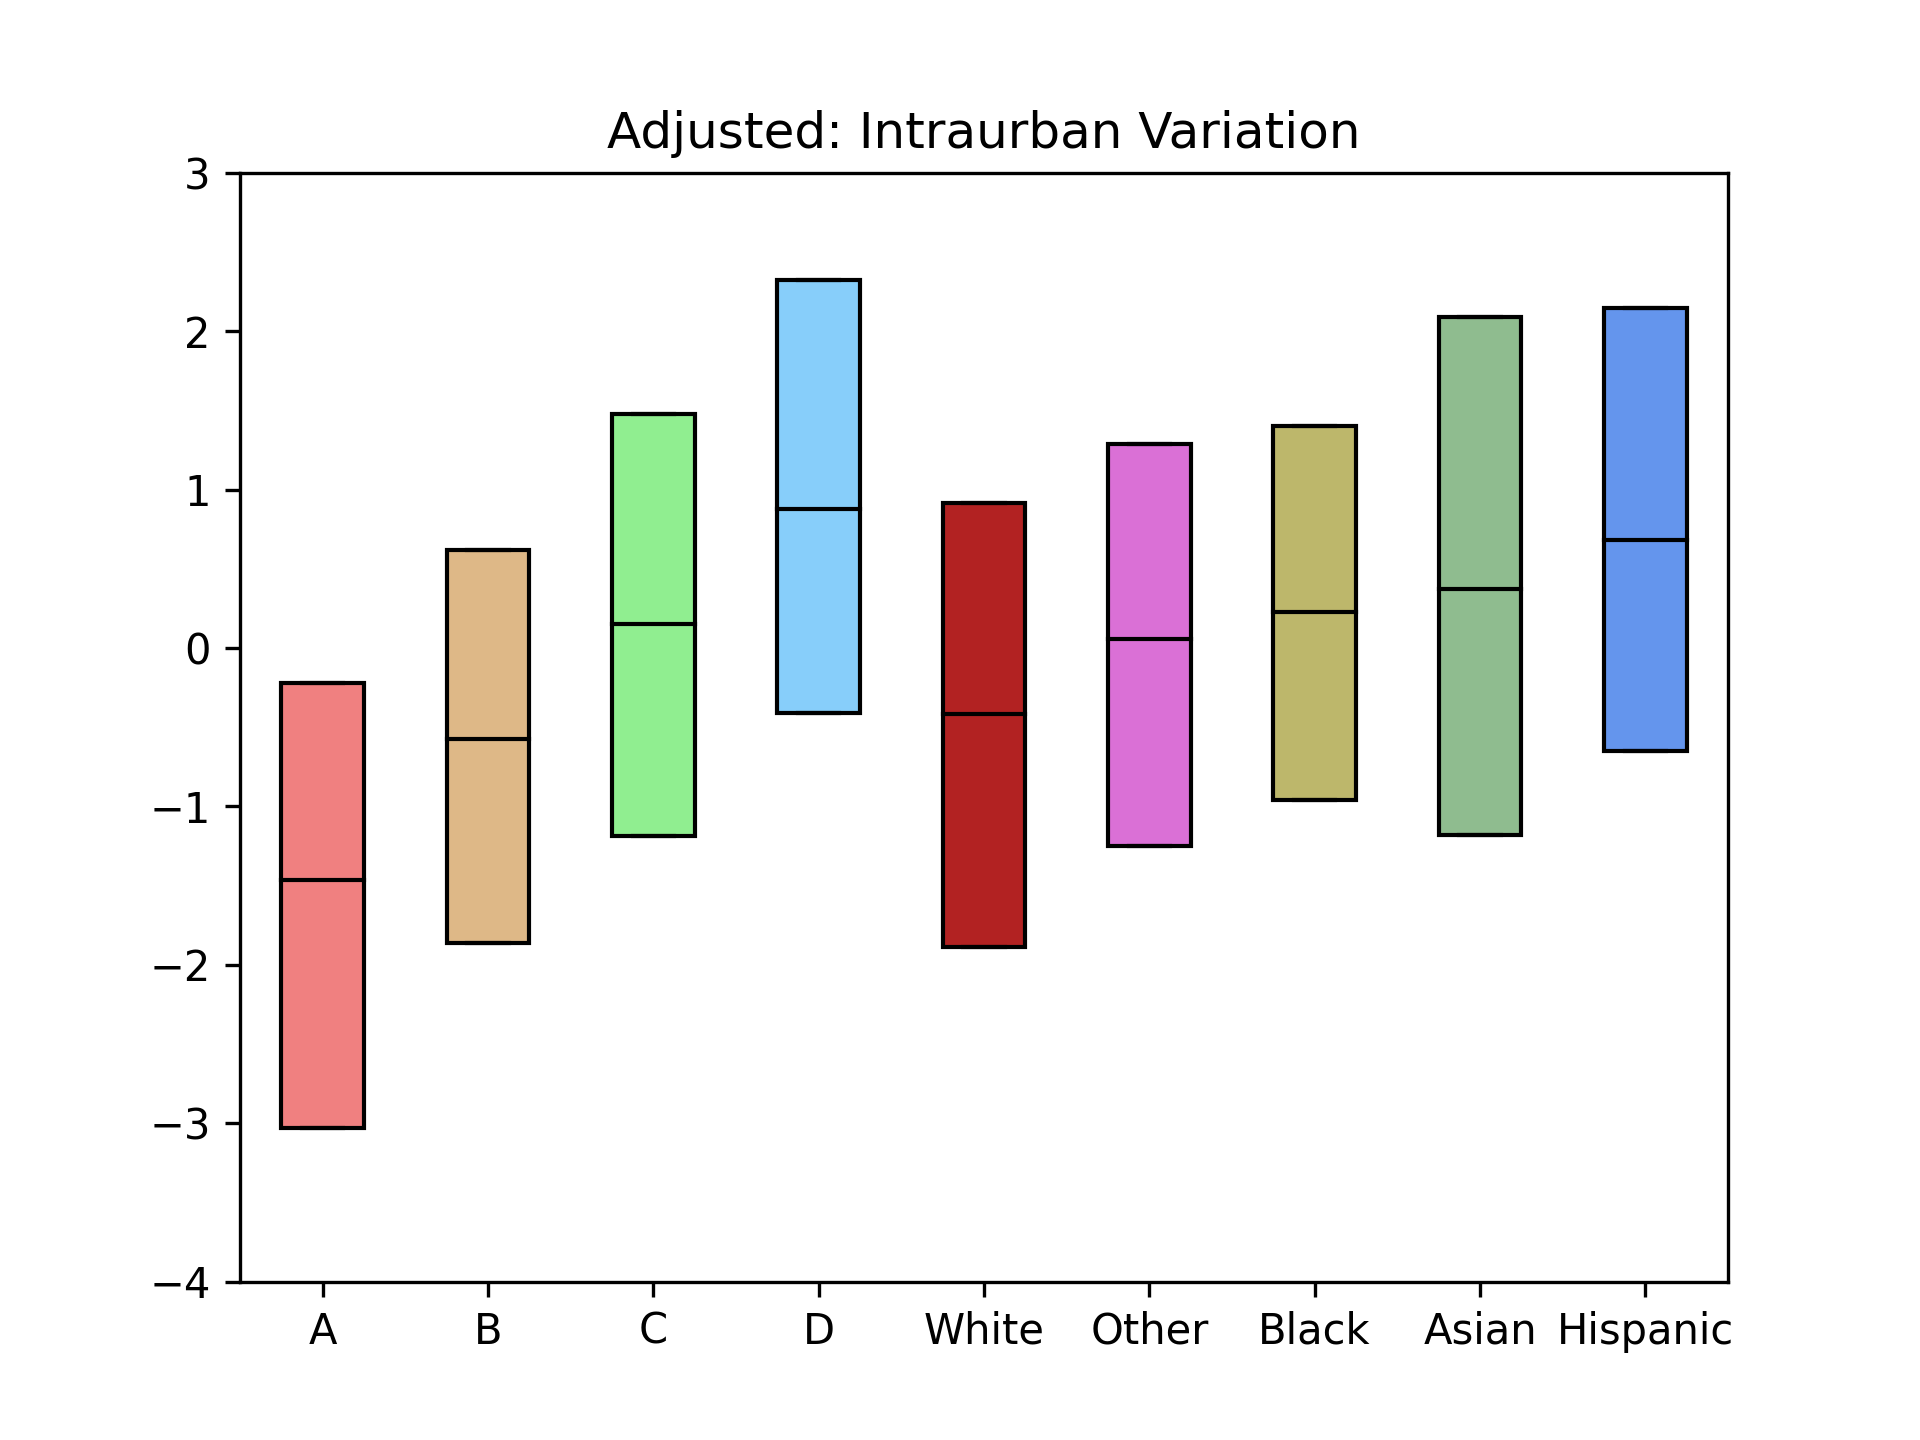
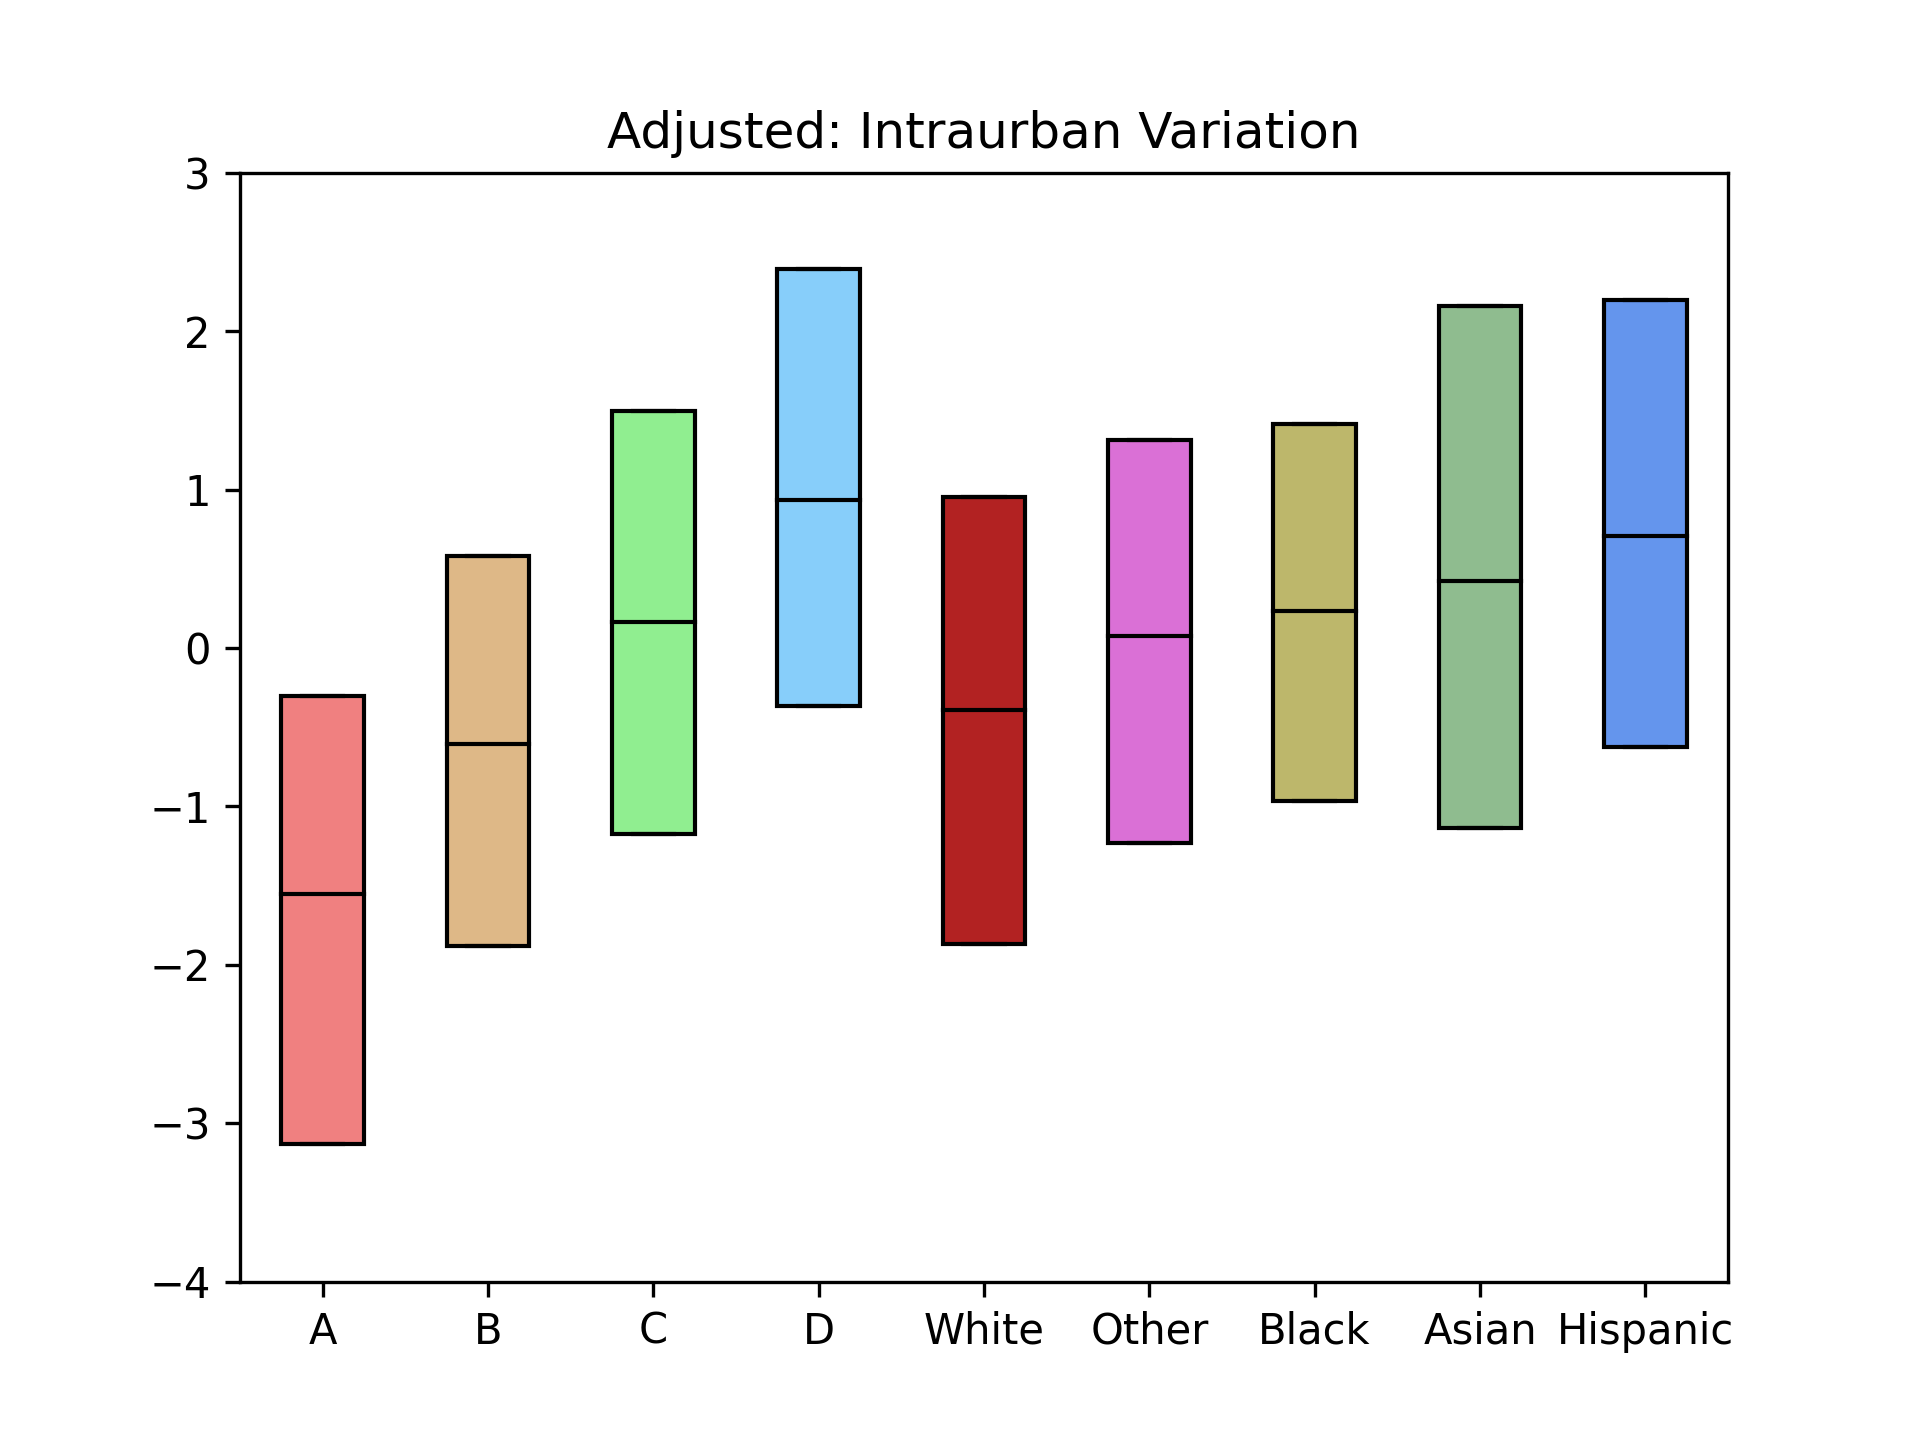
factored PHOLC into NO2 adjusted plot

diff --git a/no2-adjusted.py b/no2-adjusted.py
@@ -37,19 +37,19 @@ no2_hispanic  = []
 
 for i in df.index:
    if df['Grade'][i] == 'A':
-      no2_A += (df['Total'][i] * [(df['NO2'][i] - pwms[df['City'][i]])])
+      no2_A += (round(df['PHOLC'][i] * df['Total'][i]) * [(df['NO2'][i] - pwms[df['City'][i]])])
    if df['Grade'][i] == 'B':
-      no2_B += (df['Total'][i] * [(df['NO2'][i] - pwms[df['City'][i]])])
+      no2_B += (round(df['PHOLC'][i] * df['Total'][i]) * [(df['NO2'][i] - pwms[df['City'][i]])])
    if df['Grade'][i] == 'C':
-      no2_C += (df['Total'][i] * [(df['NO2'][i] - pwms[df['City'][i]])])
+      no2_C += (round(df['PHOLC'][i] * df['Total'][i]) * [(df['NO2'][i] - pwms[df['City'][i]])])
    if df['Grade'][i] == 'D':
-      no2_D += (df['Total'][i] * [(df['NO2'][i] - pwms[df['City'][i]])])
+      no2_D += (round(df['PHOLC'][i] * df['Total'][i]) * [(df['NO2'][i] - pwms[df['City'][i]])])
    if df['Grade'][i] != 'N':
-      no2_white += (df['White'][i] * [(df['NO2'][i] - pwms[df['City'][i]])])
-      no2_other += (df['Other'][i] * [(df['NO2'][i] - pwms[df['City'][i]])])
-      no2_black += (df['Black'][i] * [(df['NO2'][i] - pwms[df['City'][i]])])
-      no2_asian += (df['Asian'][i] * [(df['NO2'][i] - pwms[df['City'][i]])])
-      no2_hispanic += (df['Hispanic'][i] * [(df['NO2'][i] - pwms[df['City'][i]])])
+      no2_white += (round(df['PHOLC'][i] * df['White'][i]) * [(df['NO2'][i] - pwms[df['City'][i]])])
+      no2_other += (round(df['PHOLC'][i] * df['Other'][i]) * [(df['NO2'][i] - pwms[df['City'][i]])])
+      no2_black += (round(df['PHOLC'][i] * df['Black'][i]) * [(df['NO2'][i] - pwms[df['City'][i]])])
+      no2_asian += (round(df['PHOLC'][i] * df['Asian'][i]) * [(df['NO2'][i] - pwms[df['City'][i]])])
+      no2_hispanic += (round(df['PHOLC'][i] * df['Hispanic'][i]) * [(df['NO2'][i] - pwms[df['City'][i]])])
 
 data = [no2_A, no2_B, no2_C, no2_D, no2_white, no2_other, no2_black, no2_asian, no2_hispanic]
 labels = ['A', 'B', 'C', 'D', 'White', 'Other', 'Black', 'Asian', 'Hispanic']
